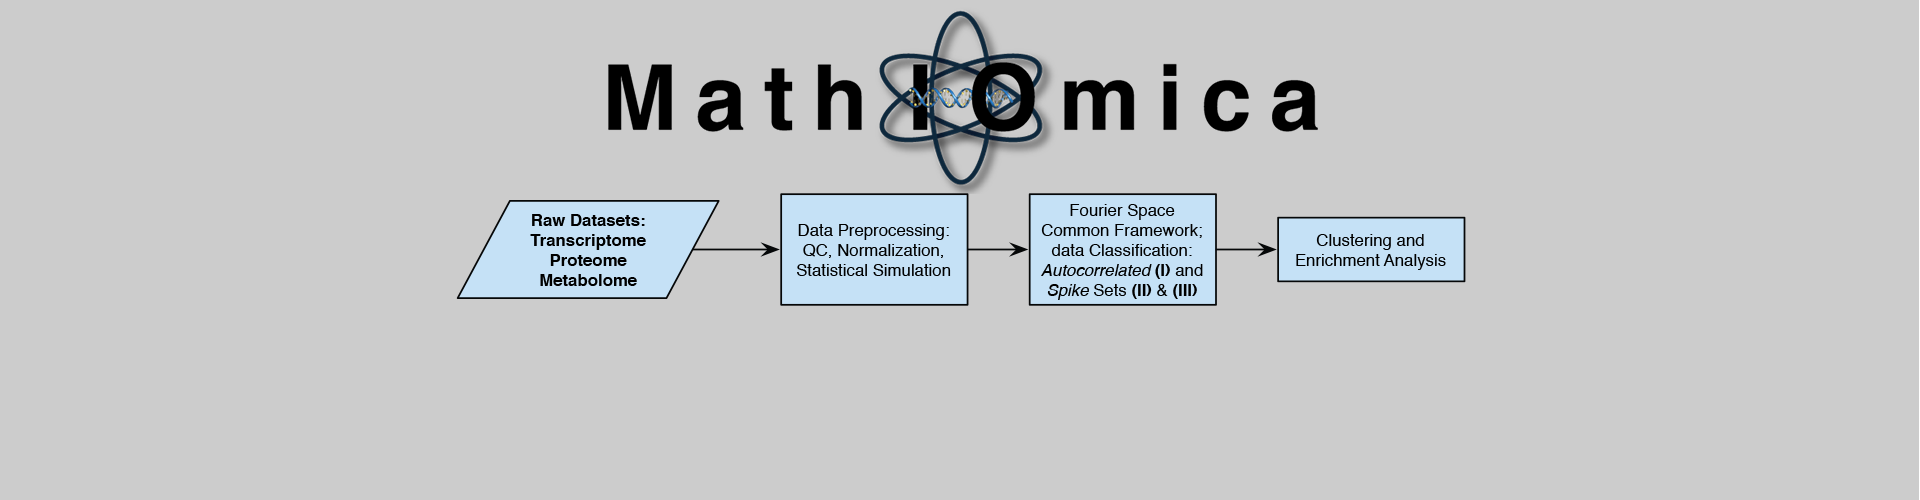
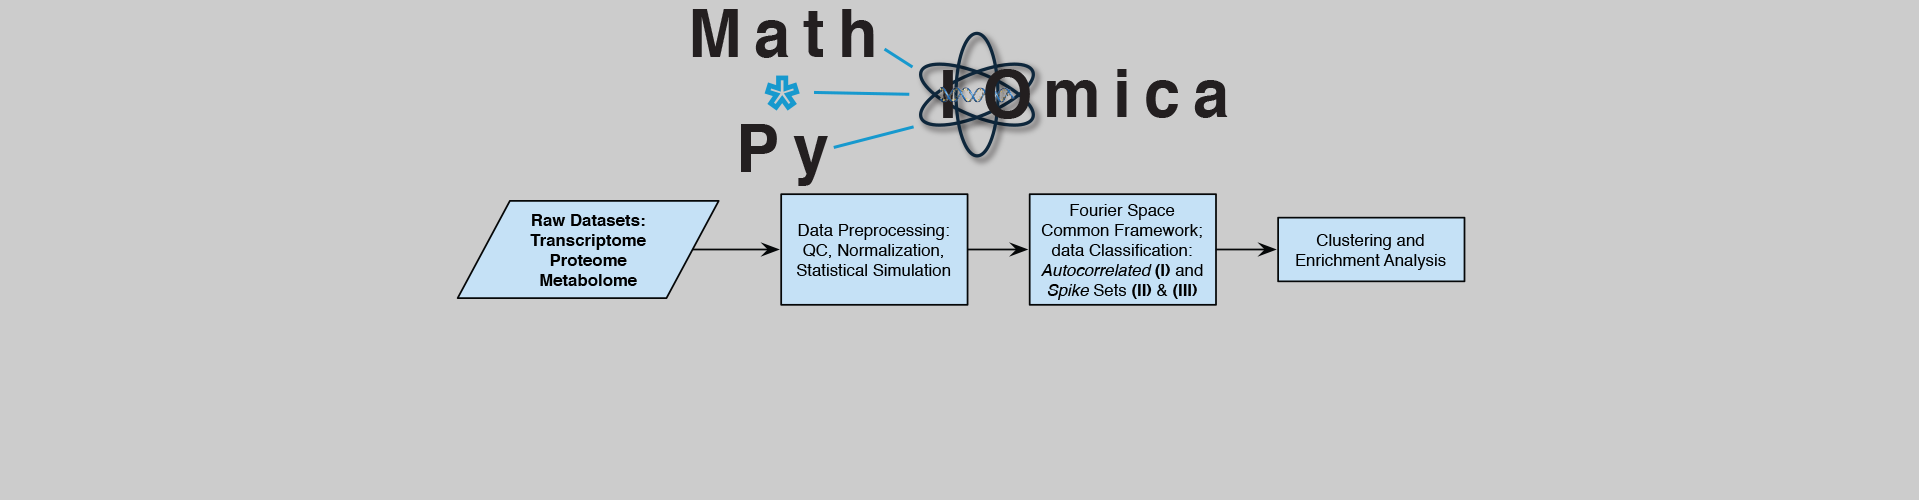
Update July 2019

Changed region(s): [[0.3125, 0.0, 0.6875, 0.39]]

diff --git a/George_I._Mias/index.html b/George_I._Mias/index.html
@@ -62,10 +62,10 @@
             <div class="carousel-caption"> Omics Integration and Personalized Medicine </div>
           </div>
           <div class="item active"> <img class="img-responsive" src="img/MathIOmica1.png" alt="thumb">
-            <div class="carousel-caption"> Data Integration with MathIOmica. (<a href="https://mathiomica.org"><b>mathiomica.org</b></a>)</div>
+            <div class="carousel-caption"> Data Integration with MathIOmica and PyIOmica. (<a href="https://mathiomica.org"><strong>mathiomica.org</strong></a>)</div>
           </div>
           <div class="item"> <img class="img-responsive" src="img//Meta3.png" alt="thumb">
-            <div class="carousel-caption"> Latest: microbiome metabolomics. Sci. Rep. 5, 11589. </div>
+            <div class="carousel-caption"> Microbiome metabolomics </div>
           </div>
         </div>
         <a class="left carousel-control" href="#carousel-299058" data-slide="prev"><span class="icon-prev"></span></a> <a class="right carousel-control" href="#carousel-299058" data-slide="next"><span class="icon-next"></span></a></div>
@@ -97,7 +97,7 @@
           </div>
           <div class="media-body">
             <h4 class="media-heading">Multi-Omics Integration</h4>
-            <p>Omics analyses and integration requires extensive processing. <a href="https://mathiomica.org"><b>MathIOmica</b></a> provides a user-friendly framework for handling downstream analysis and visualization.</p>
+            <p>Omics analyses and integration requires extensive processing. <a href="https://mathiomica.org"><strong>MathIOmica and PyIOmica</strong></a> provide a user-friendly framework for handling downstream analysis and visualization.</p>
           </div>
         </div>
       </div>
@@ -184,12 +184,20 @@
                 <div id="publications" class="panel-collapse collapse">
                   <div class="panel-body">
                     <ol style="list-style-type:disc; padding-right:15px; padding-top:15px; padding-bottom:15px; " >
+					  <h4> Online Profiles </h4>
+						<ol style="list-style-type:circle; " >
+							<li><a href="https://scholar.google.com/citations?hl=en&authuser=2&user=bhexC3YAAAAJ"> <strong>Google Scholar</strong></a></li>
+							<li><a href="https://www.ncbi.nlm.nih.gov/myncbi/george.mias.1/bibliography/public/"> <strong> NCBI Bibliography</strong></a></li>
+							<li><a herf="https://orcid.org/0000-0002-9083-1216"> <strong> ORCiD ID</strong></a></li>
+						</ol>
                       <h4>Selected Publications</h4>
                       <small><b>*</b>contributed equally</small><br>
 						<small><b> <sup> c </sup> </b>corresponding author</small><br>
 						<small>Full Publication List in CV (see above, under Biography Section)</small>
                       <ol style="list-style-type:circle; " >
-                        <li>L.R.K. Brooks and <strong>George I. Mias<sup>c </sup></strong>, <em> Streptococcus pneumoniae’s Virulence and Host Immunity: Aging, Diagnostics, and Prevention</em>, Frontiers in Immunology, <strong>9</strong>:1366 (2018)<br>
+                        <li>L.R.K. Brooks and <strong>George I. Mias<sup>c </sup></strong>, <em> Data-Driven Analysis of Age, Sex, and Tissue Effects on Gene Expression Variability in Alzheimer's Disease</em>, Frontiers in Neuroscience, <strong>13</strong>:392 (2019)<br>
+                          <a href="https://doi.org/10.3389/fnins.2019.00392">doi:10.3389/fnins.2019.00392</a></li>
+					  <li>L.R.K. Brooks and <strong>George I. Mias<sup>c </sup></strong>, <em> Streptococcus pneumoniae’s Virulence and Host Immunity: Aging, Diagnostics, and Prevention</em>, Frontiers in Immunology, <strong>9</strong>:1366 (2018)<br>
                           <a href="https://doi.org/10.3389/fimmu.2018.01366">doi:10.3389/fimmu.2018.01366</a></li>
 						<li>H. Im, V. Rao, K. Sridhar, T. Mishra, R. Chen, J. Hall, Y. Zhang, L. Xiao, <strong>George I. Mias</strong>, M. P. Snyder, P.L. Greenberg<em> Distinctive Transcriptomic and Exomic Abnormalities within Myelodysplastic Syndrome Marrow Cells, </em>, Leukemia and Lymphoma, (2018)<br>
 						  <a href="https://doi.org/10.1080/10428194.2018.1452210">doi:10.1080/10428194.2018.1452210</a></li>
@@ -588,7 +596,7 @@
         <h3>Resources</h3>
         <hr>
         <ul id="dataTab" class="nav nav-tabs">
-          <li class="active"> <a href="#mathiomica" data-toggle="tab" id="mathiomicaTab"> MathIOmica </a> </li>
+          <li class="active"> <a href="#mathiomica" data-toggle="tab" id="mathiomicaTab"> Highlights </a> </li>
           <li><a href="#data" data-toggle="tab">Data</a></li>
           <li> <a href="#tools" data-toggle="tab">Tools</a> </li>
           <li> <a href="#educational" data-toggle="tab" id="educationalRef">Education</a> </li>
@@ -596,7 +604,13 @@
         <div id="dataTabContent" class="tab-content">
           <div class="tab-pane fade in active" id="mathiomica"> <br>
             <p class="text-center"><img src="img/MathiomicaLogo.png" alt=""></p>
-            <p><a href="https://mathiomica.org"><strong>MathIOmica</strong></a>: a unique platform for multi-omics analysis.</p>
+            <p><a href="https://mathiomica.org"><strong>MathIOmica/PyIOmica/*IOmica</strong></a>: unique platforms for multi-omics analysis.</p>
+			  <p class="text-center"> <img src="img/MathematicaForBioinformatics.jpeg" alt="" height="300"></p>
+			  <p>  <a href="https://link.springer.com/book/10.1007%2F978-3-319-72377-8"><strong>Mathematica for bioinformatics</strong></a>: A Wolfram Language approach to Omics.
+				  <ul> 
+			  <li> 
+			  Text available for free on SpringerLink with institutional access.</li>
+			  <li>All code from the book is freely available on GitHub <a href="https://github.com/gmiaslab/MathematicaBioinformatics">(Access Latest Release)</a> </li></ul></p>
           </div>
           <div class="tab-pane fade" id="data">
             <div class="panel-group" id="dataSources">
@@ -626,9 +640,27 @@
             </div>
           </div>
           <div class="tab-pane fade" id="tools">
-            <p class="text-center">Coming soon!</p>
-            <p>Stand-alone helper tool to aid in visualization (MathIOmica Addendum)</p>
-          </div>
+			  <h4>Open Source Tools for Computation</h4>
+               	<p> Tools available on the <a href="https://github.com/gmiaslab"><strong>gmiaslab GitHub repository</strong></a>
+			  <ol style="list-style-type:circle; " >
+                        <li><strong>MathIOmica and PyIOmica</strong></li>
+			  			<ol style="list-style-type:disc">
+							<li><a href="https://mathiomica.org"> MathIOmica.org</a> Information Homepage for MathIOmica and PyIOmica</li>
+							<li><a href="https://github.com/gmiaslab/mathiomica"> MathIOmica GitHub Page</a> Multi-omics analysis tool written in the Wolfram Language</li>
+							<li><a href="https://github.com/gmiaslab/pyiomica"> PyIOmica GitHub Page</a> Multi-omics analysis tool written in Python</li>
+						  </ol>
+			  <li><strong>MathIOmica-MSViewer</strong></li>
+			  			<ol style="list-style-type:disc">
+							<li><a href="https://github.com/gmiaslab/MathIOmica-MSViewer"> MathIOmica-MSViewer GitHub Page</a> A mass spectrometry spectra viewer written in the Wolfram Language.
+								</li>
+							</ol>
+			  <li><strong>ClassificaIO</strong></li>
+			  	<ol style="list-style-type:disc">
+							<li><a href="https://github.com/gmiaslab/ClassificaIO">ClassificaIO GitHub Page</a> A GUI for Machine Learning Algorithms (Python).
+								</li>
+							</ol>
+			  	</p>
+	   	  </div>
           <div class="tab-pane fade" id="educational">
             <div class="panel panel-default">
               <div class="panel-group" id="educationalPanels">
@@ -781,7 +813,7 @@
   <div class="container">
     <div class="row">
       <div class="col-xs-12">
-        <p>Copyright © George I. Mias 2015. All rights reserved.</p>
+        <p>Copyright © George I. Mias 2019. All rights reserved.</p>
       </div>
     </div>
   </div>
